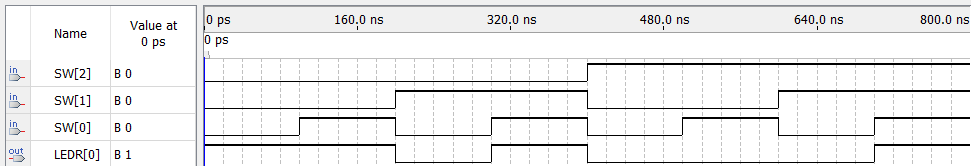
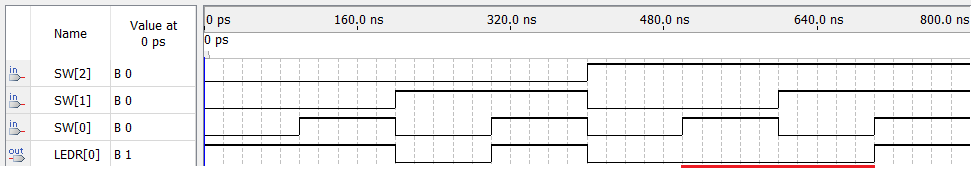
Opgave 4-3

diff --git a/journal_ex04/opgave_4-3.tex b/journal_ex04/opgave_4-3.tex
@@ -1,16 +1,50 @@
-\subsection{Table Lookup}
+{
+  % defines a label prefix local to this file
+  % to avoid clashing references when including the same file multiple times
+  \newcommand{\labelprefix}{src4-3}
 
-% Intro 
-\subsubsection{Introduktion}
+  \subsection{Table Lookup}
 
-% Design
-\subsubsection{Design og implementering}
+  % Intro 
+  \subsubsection{Introduktion}
 
-% Results
-\subsubsection{Resultater}
+  I denne opgave vil vi bruge en tredje metode til implementering af multiplexing, nemlig et ``lookup table''.
+  Vi vil med denne metode implementere sandhedstabellen som vist i opgavens tabel 1.
+  Lookup tabellen defineres som en hardcoded konstant array med output værdier, hvorefter den numeriske værdi af inputsne bruges som indeks i arrayet.
 
-% Discussion
-\subsubsection{Diskussion}
+  % Design
+  \subsubsection{Design og implementering}
+  
+  Vi har ud fra tabel 1 i opgaven implementeret entity \texttt{table\_lookup} med 3 inputs \texttt{a}, \texttt{b} og \texttt{c}, og outputtet \texttt{x}.
+  \CodeRef[\labelprefix]{ex04/vhdl/table_lookup.vhd} viser vores implementering, med den konstante array \texttt{table} der har output værdierne som defineret i sandhedstabelle og type casting af de tre input, først til typen \texttt{unsigned} og derefter til \texttt{integer}, således at værdien kan bruges som indeks.
 
-% Conclusion
-\subsubsection{Konklusion}
+  \includecode[\labelprefix]{ex04/vhdl/table_lookup.vhd}{Implementering af table lookup i VHDL}{}
+
+  Vi har igen brugt vores testbench entity \texttt{UnitUnderTest} til at teste vores design. Set i \coderef[\labelprefix]{ex04/vhdl/UnitUnderTest.vhd} er vores architecture for test af table lookup entity.
+
+  \includecode[\labelprefix]{ex04/vhdl/UnitUnderTest.vhd}{Testbench for implementering af table lookup}{linerange={16-17,39-49}}
+
+  % Results
+  \subsubsection{Resultater}
+
+  Vores design resulterede efter syntetisering i det RTL-view som er set på \figref{ex4-3_rtl_view}.
+
+  Desuden opstillede vi en funktionel simuleringstest som set på \figref{ex4-3_functional_simulation} hvor alle de 8 mulige kombinationer af inputs og resulterende outputs gennemgås.
+  
+  \dsdfig{ex4-3_rtl_view}{8cm}{RTL-view af den syntetiserede table lookup}
+
+  \dsdfig{ex4-3_functional_simulation}{\textwidth}{Funktionel simulering af table lookup}
+
+  % Discussion
+  \subsubsection{Diskussion}
+
+  Vi ser på \figref{ex4-3_rtl_view} at vores table lookup er blevet syntetiseret til et multiplexer med vores tre input som select og vores hardcodede værdi som data, dette stemmer overens med vores forventning.
+  
+  Desuden kan vi ud fra vores funktionelle simulation som set på \figref{ex4-3_functional_simulation} se, at sammenhængen mellem input og output stemmer overens med sandhedstabellen. Vi ser desuden at de to outputs som er sat til ``don't care'' (markeret med rødt på billedet) bliver sat til 0 i simulationen.
+
+  % Conclusion
+  \subsubsection{Konklusion}
+
+  Vi har i denne opgave erfaret at man som alternativ til \texttt{WITH-SELECT} og \texttt{WHEN-ELSE} også kan bruge en array af konstante værdier og omdanne input til et indeks i arrayet. Dette bliver korrekt omdannet til en multiplexer ligesom de andre selection metoder.
+  Vi erfarede også at i den funktionelle simulation bliver ``don't care'' holdt til 0.
+}
